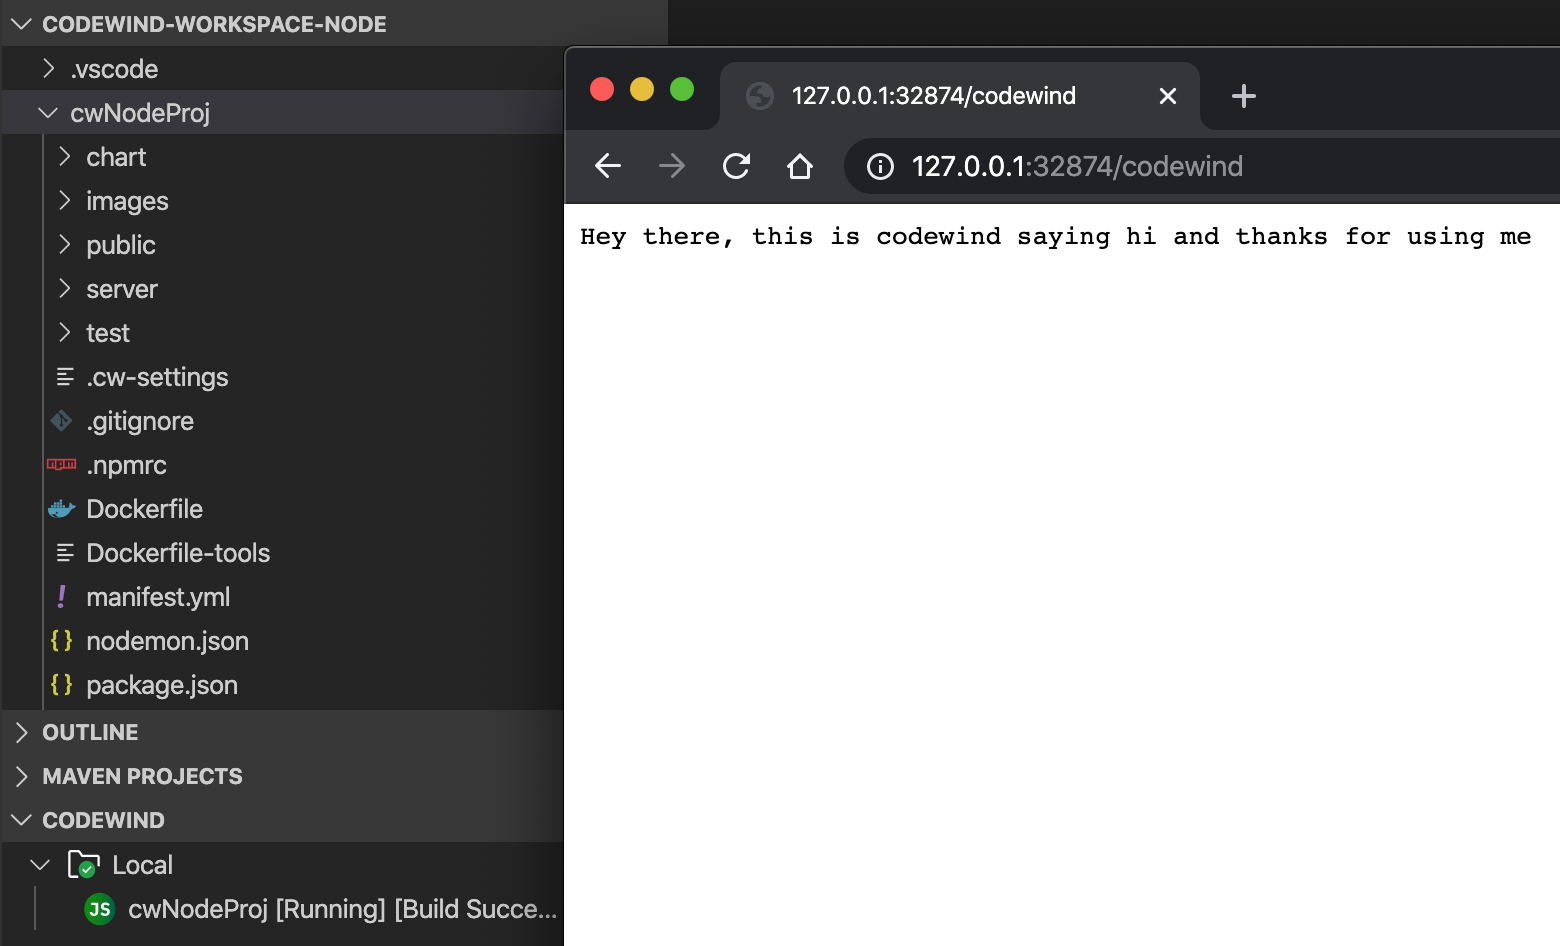
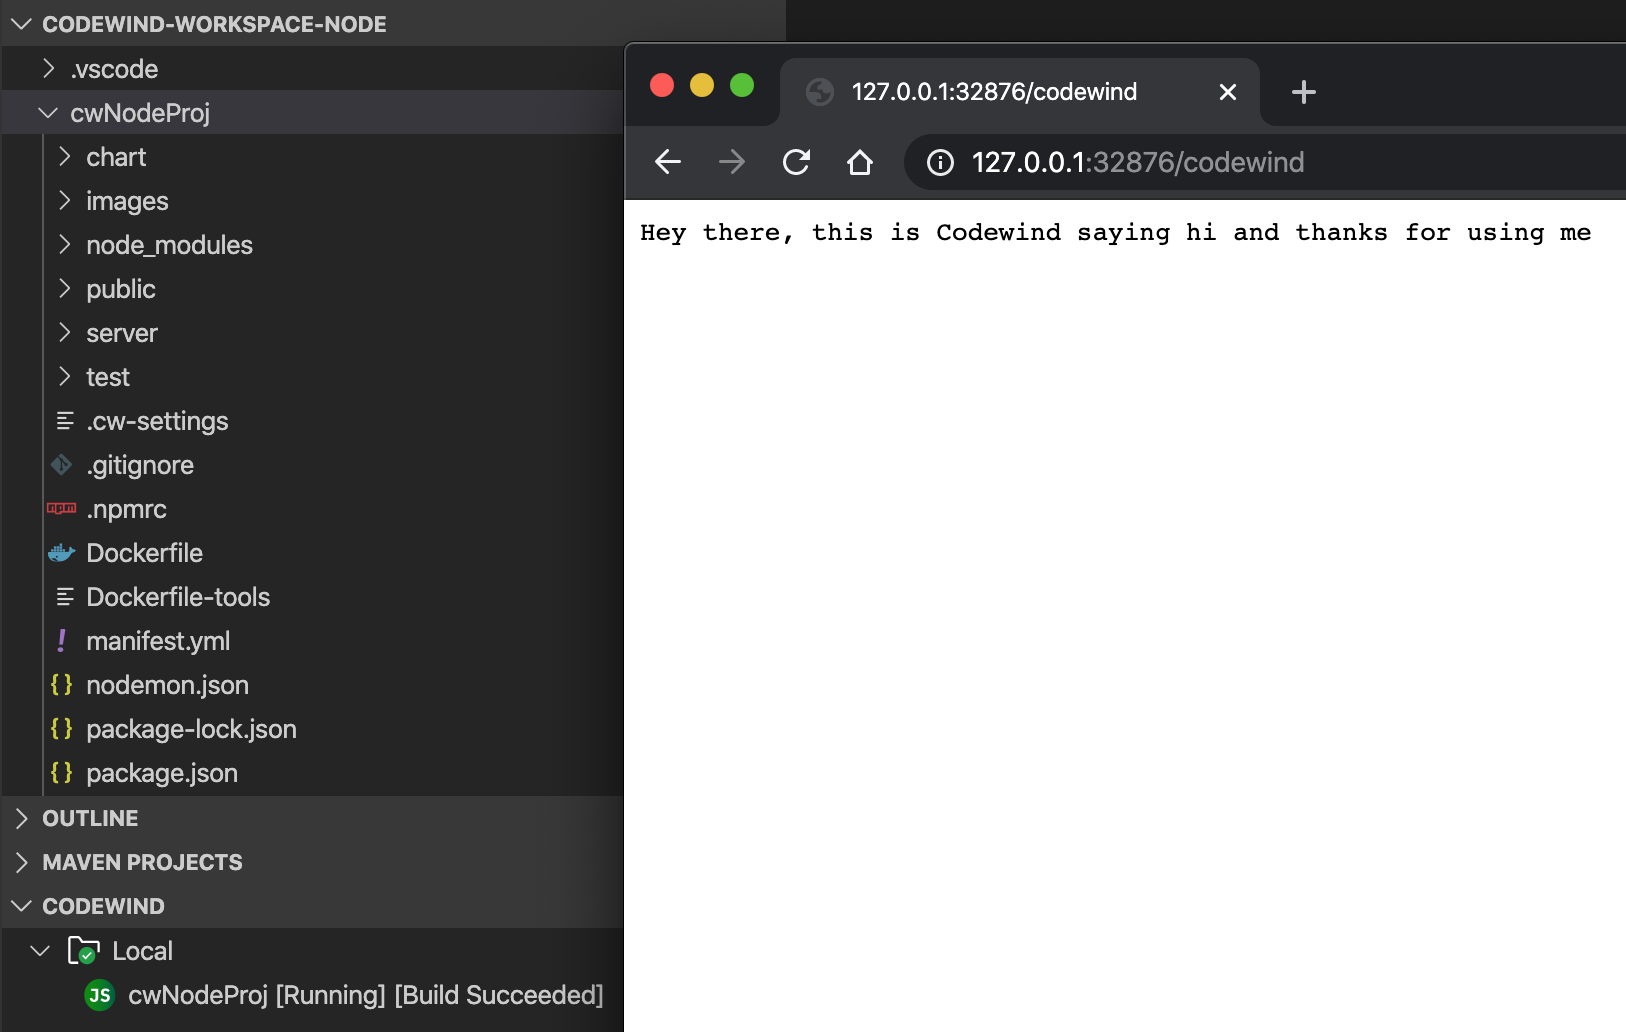
fix case

Changed region(s): [[0.0, 0.0, 1.0, 1.0], [0.0, 0.0, 0.2462, 0.0307], [0.7385, 0.092, 0.7692, 0.1226]]

diff --git a/docs/_blog/2020-04-16-working-with-private-registries.md b/docs/_blog/2020-04-16-working-with-private-registries.md
@@ -24,7 +24,7 @@ In this blog entry let's explore working with private NPM registries and private
 I'm starting with a Codewind project created using the Node.js Express project template. When I open the application and navigate to its `/codewind` endpoint, I'm greeted with:
 
 ![image of Hey there, this is codewind saying hi and thanks for using me](images/blog/privateregnode01.png){:width="500px"}
-*Hey there, this is codewind saying hi and thanks for using me*
+*Hey there, this is Codewind saying hi and thanks for using me*
 {:style="margin: 30px; text-align: center;"}
 
 The message looks pretty bland doesn't it? Luckily, I happen to have a special package hosted on my private GitHub NPM registry that I can use to give this message some flair. First, I'll configure the credentials for the registry in my `~/.npmrc` configuration file:
@@ -72,7 +72,7 @@ npm ERR! 404 Not Found: @makandre/samplepkg@^1.0.0
 
 So what happened? Well it's true I had configured everything correctly on my system to pull from the private registry. However, that's just for my local environment. When Codewind builds the project into a Docker image, the Docker build does not have access to the same configuration. This can be easily remedied by adding a [reference](referencing-files.html) to the `~/.npmrc` file into my project--using a reference keeps sensitive information out of my project where it may get accidentally committed to source control. After adding the reference, my project built successfully and it shows the updated message:
 
-*Hello there, general Kenobi, this is codewind saying hi and thanks for using me*
+*Hello there, General Kenobi, this is Codewind saying hi and thanks for using me*
 {:style="margin: 30px; text-align: center;"}
 
 Much better.
